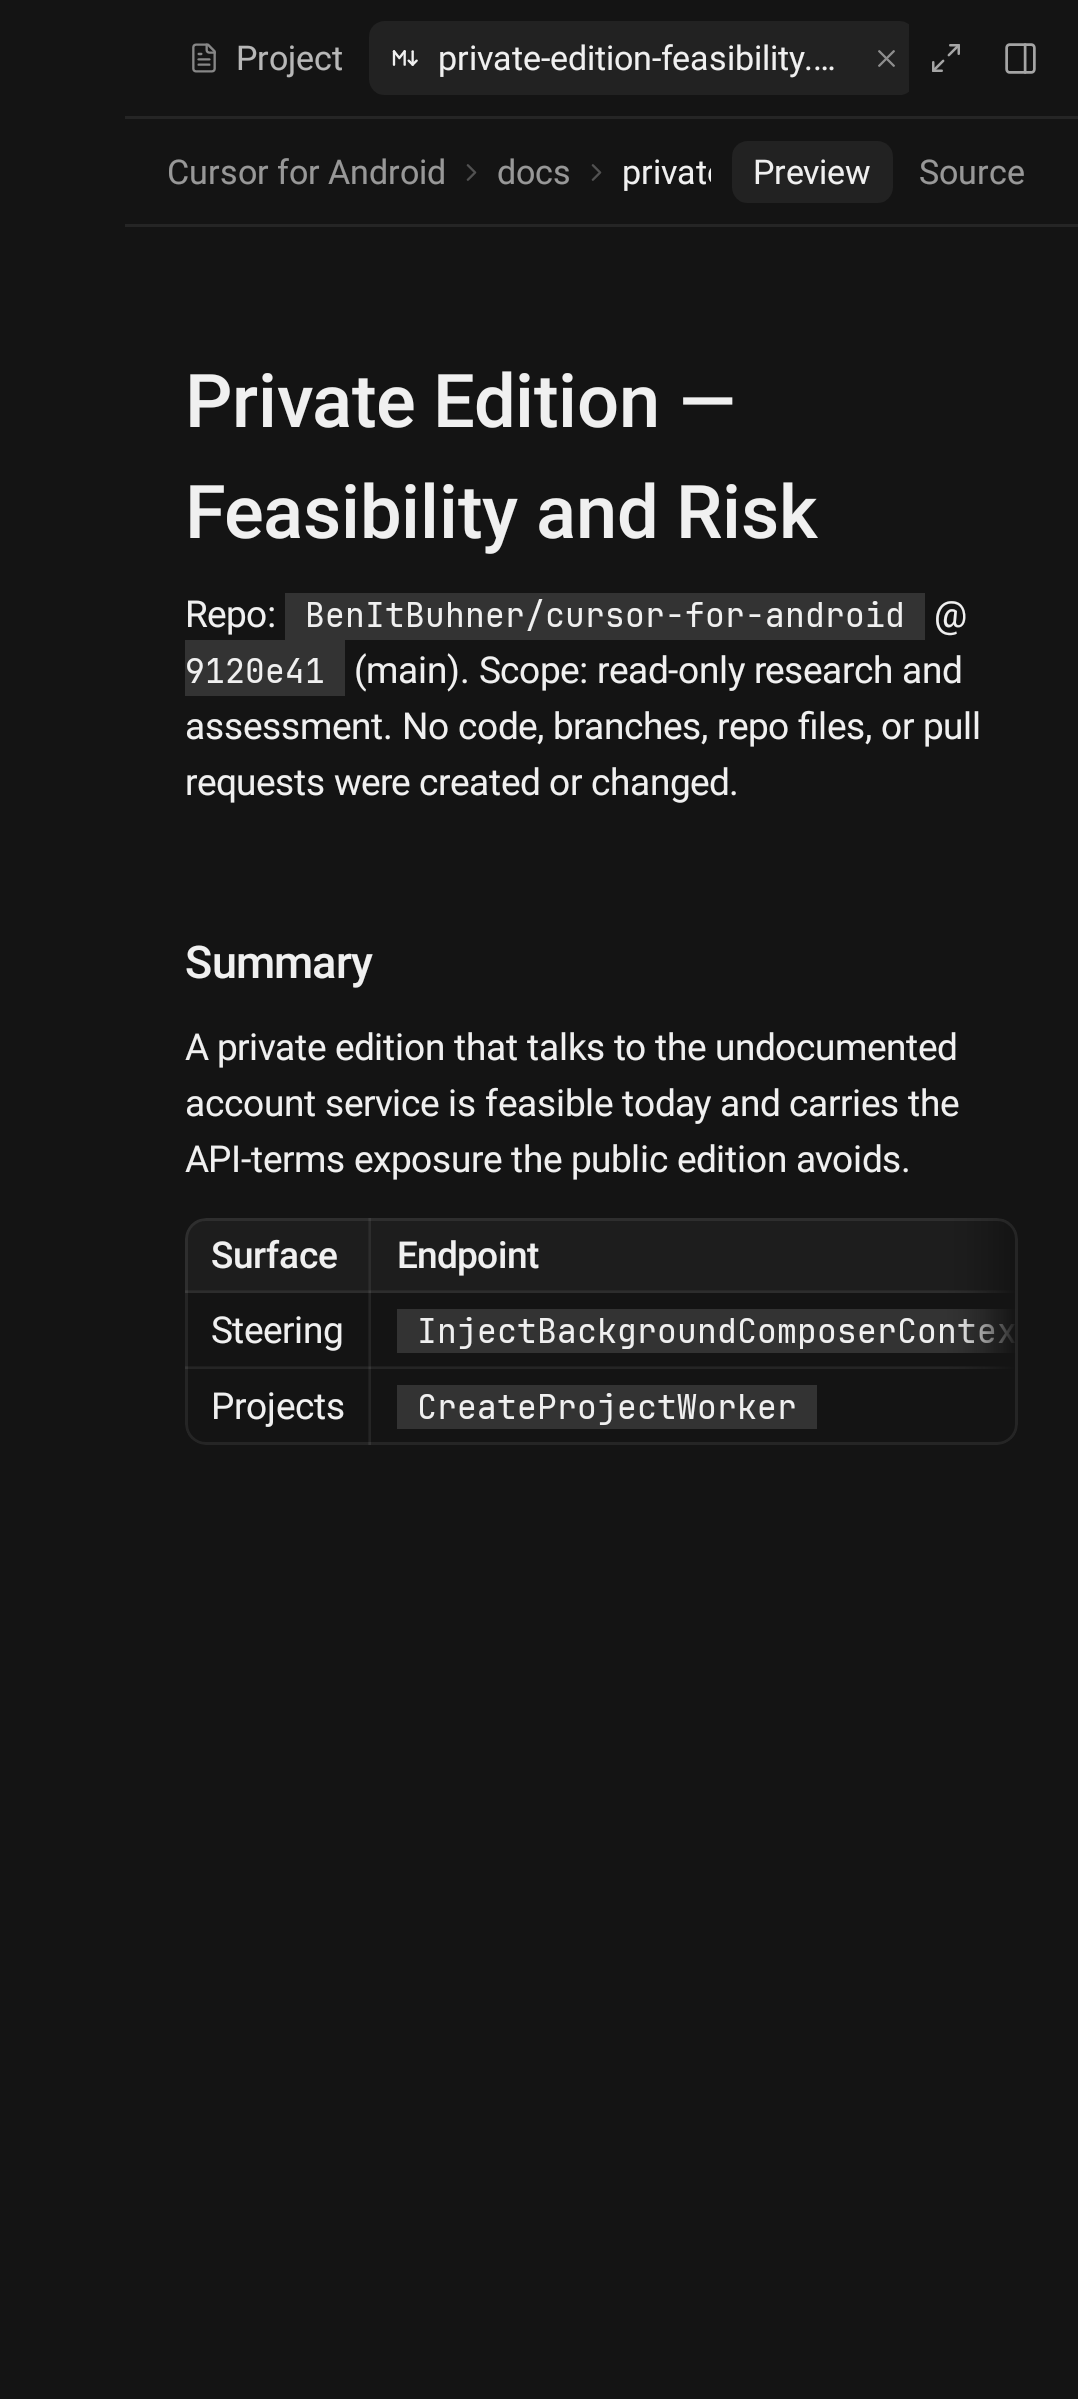
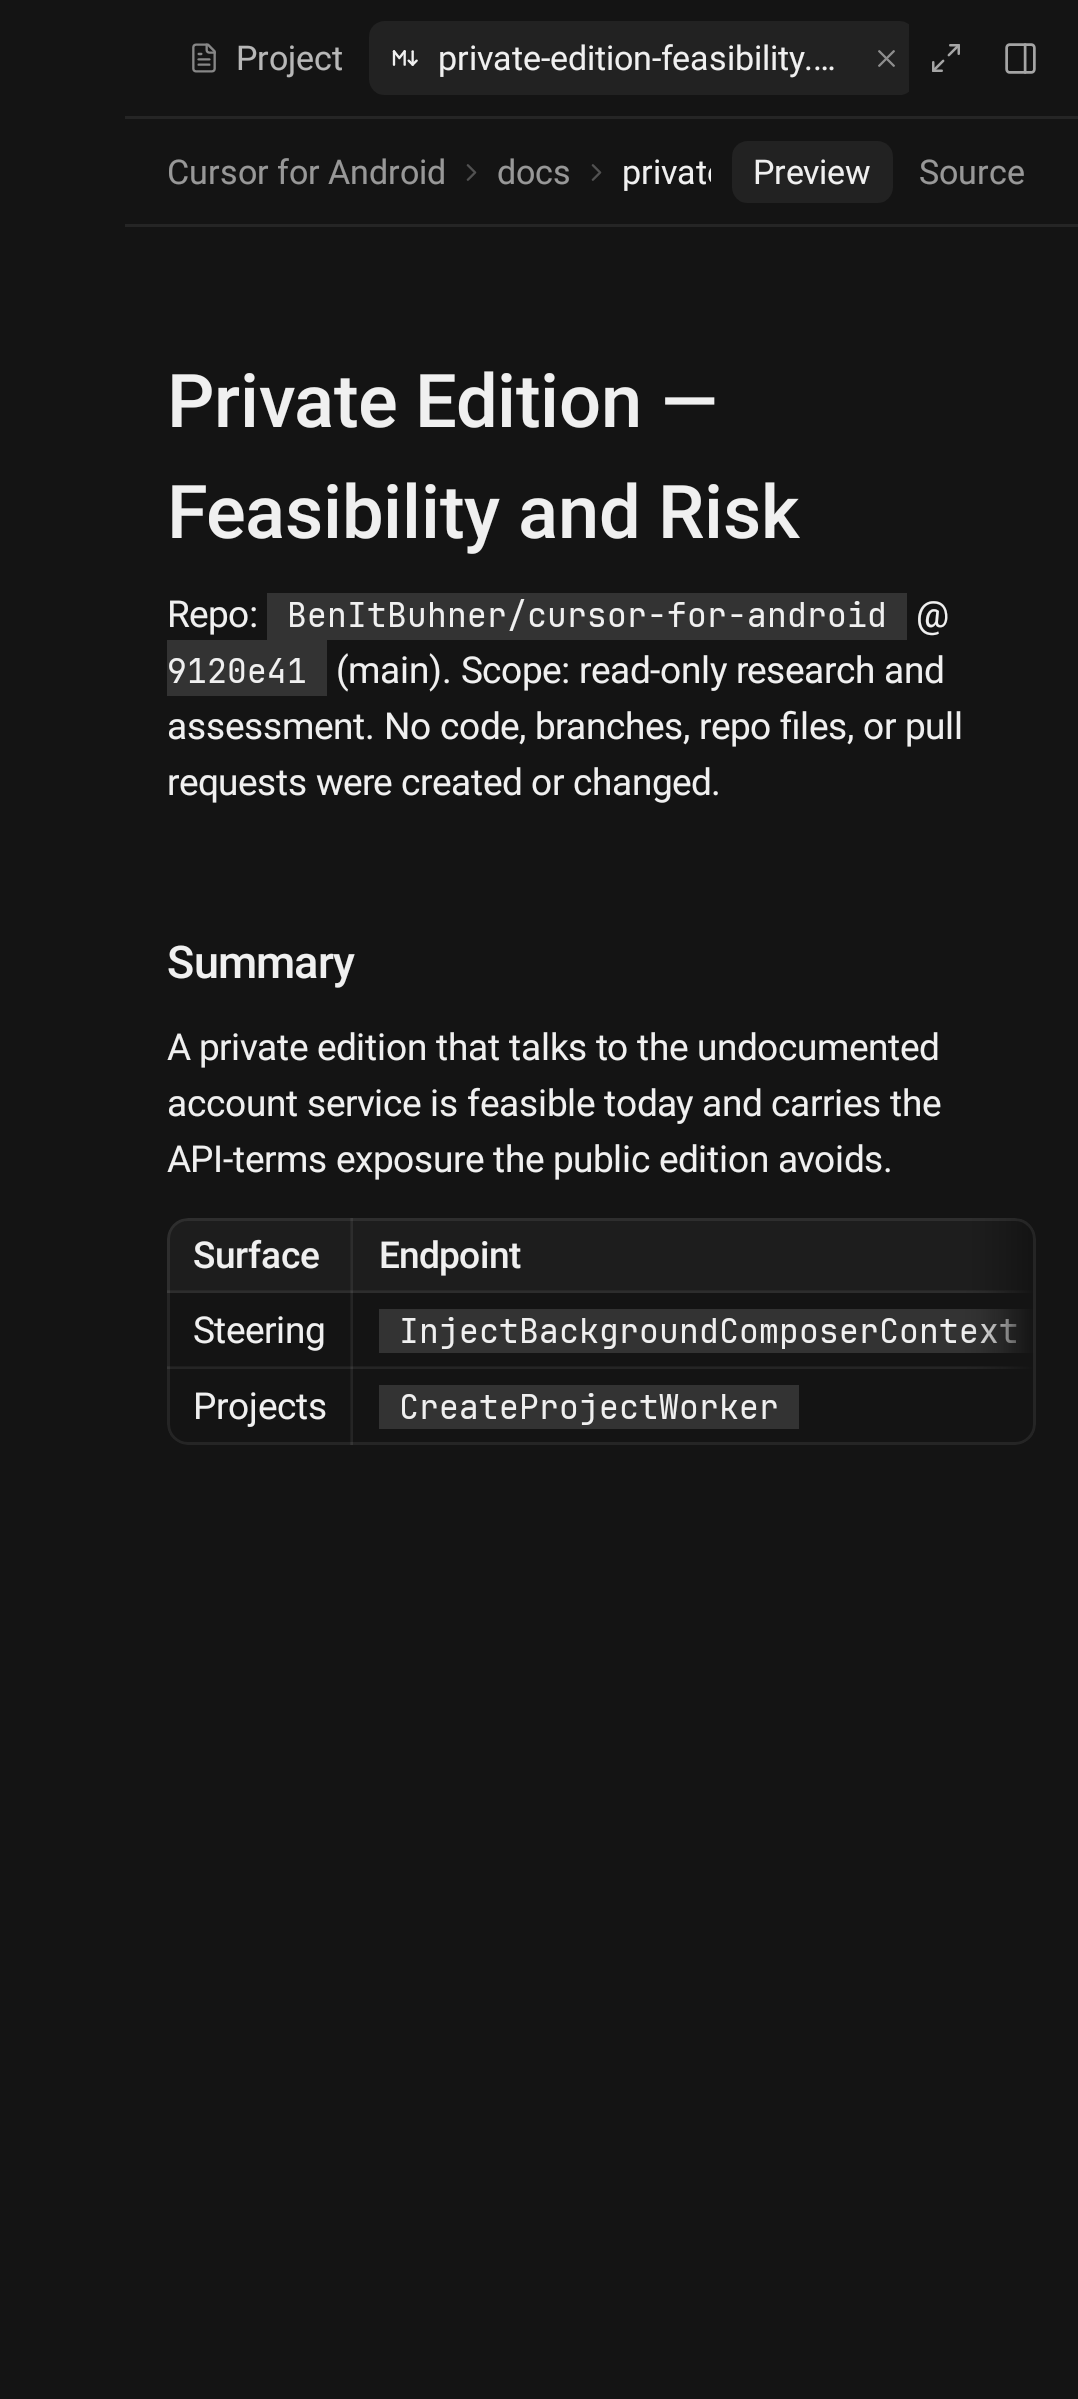
Documents run to the web's 16px inset; thumbnail wait allows a loaded runner

Changed region(s): [[0.1531, 0.1542, 0.9184, 0.3393], [0.1531, 0.3702, 0.8878, 0.6169]]

diff --git a/app/src/main/java/com/cursorforandroid/ui/panel/ContextTabs.kt b/app/src/main/java/com/cursorforandroid/ui/panel/ContextTabs.kt
@@ -464,11 +464,9 @@ private fun DocumentBody(document: ContextDocument, source: Boolean) {
     if (source) {
         TextFile(document.text, truncated = false, modifier = Modifier.testTag("document-source"))
     } else {
-        BoxWithConstraints {
-            val inset = contentInset(maxWidth)
-            LazyColumn(Modifier.fillMaxSize().testTag("document-preview"), contentPadding = PaddingValues(start = inset, end = inset, top = 14.dp, bottom = 24.dp)) {
-                item { MarkdownText(document.text, style = NotesText, appearance = MarkdownAppearance.Notes.copy(h1Scale = 2f)) }
-            }
+        // A document runs to the web's 16px inset, unlike the notes under the Project's header.
+        LazyColumn(Modifier.fillMaxSize().testTag("document-preview"), contentPadding = PaddingValues(start = 16.dp, end = 16.dp, top = 14.dp, bottom = 24.dp)) {
+            item { MarkdownText(document.text, style = NotesText, appearance = MarkdownAppearance.Notes.copy(h1Scale = 2f)) }
         }
     }
 }

diff --git a/app/src/test/java/com/cursorforandroid/screenshots/PanelTabsScreenshotTest.kt b/app/src/test/java/com/cursorforandroid/screenshots/PanelTabsScreenshotTest.kt
@@ -279,8 +279,9 @@ class PanelTabsScreenshotTest {
     @Test
     fun allFilesTab() {
         compose.setContent { Panel(coordinatorState(thumbnail(), PanelTab.Project, allFiles = true)) }
-        // The pictures decode off the main thread, in no fixed order; the frame waits for all three to be on screen.
-        compose.waitUntil(20_000) { compose.onAllNodes(hasContentDescription("Thumbnail of ", substring = true)).fetchSemanticsNodes().size == 3 }
+        // The pictures decode off the main thread, in no fixed order and slowly on a loaded CI runner; the frame waits
+        // for all three to be on screen.
+        compose.waitUntil(60_000) { compose.onAllNodes(hasContentDescription("Thumbnail of ", substring = true)).fetchSemanticsNodes().size == 3 }
         capture("70_panel_all_files")
     }
 
